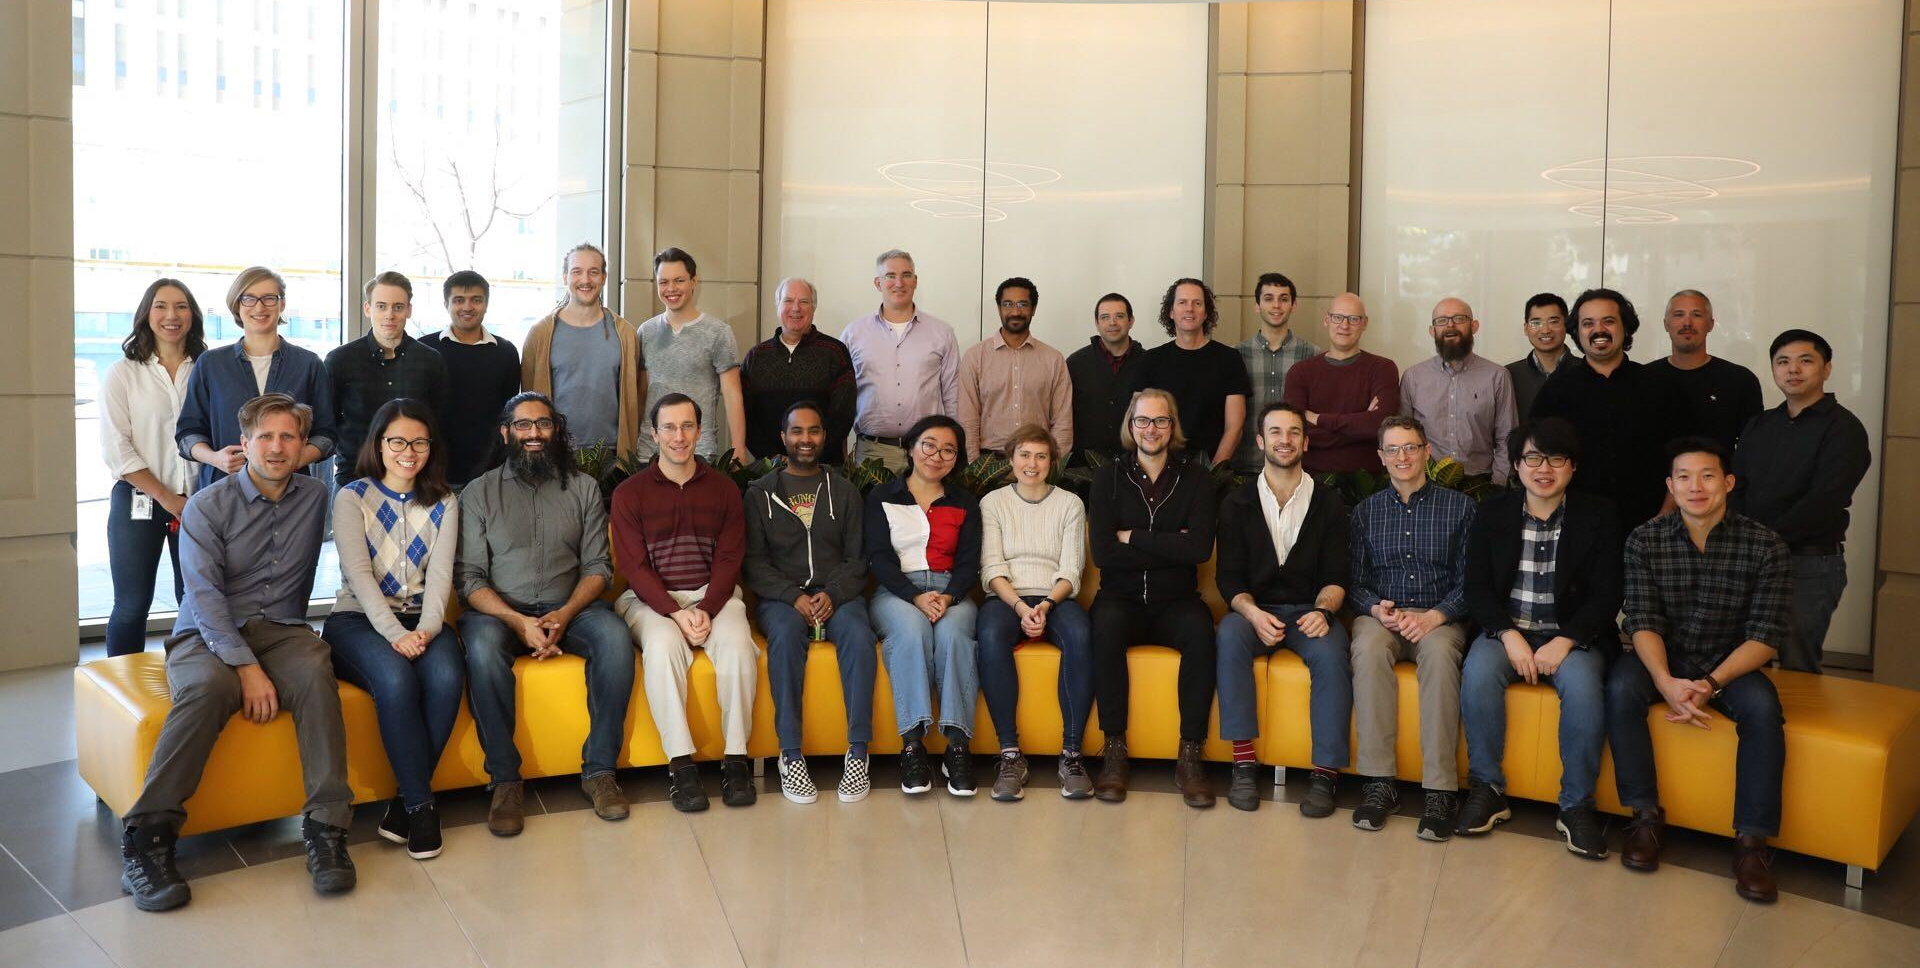
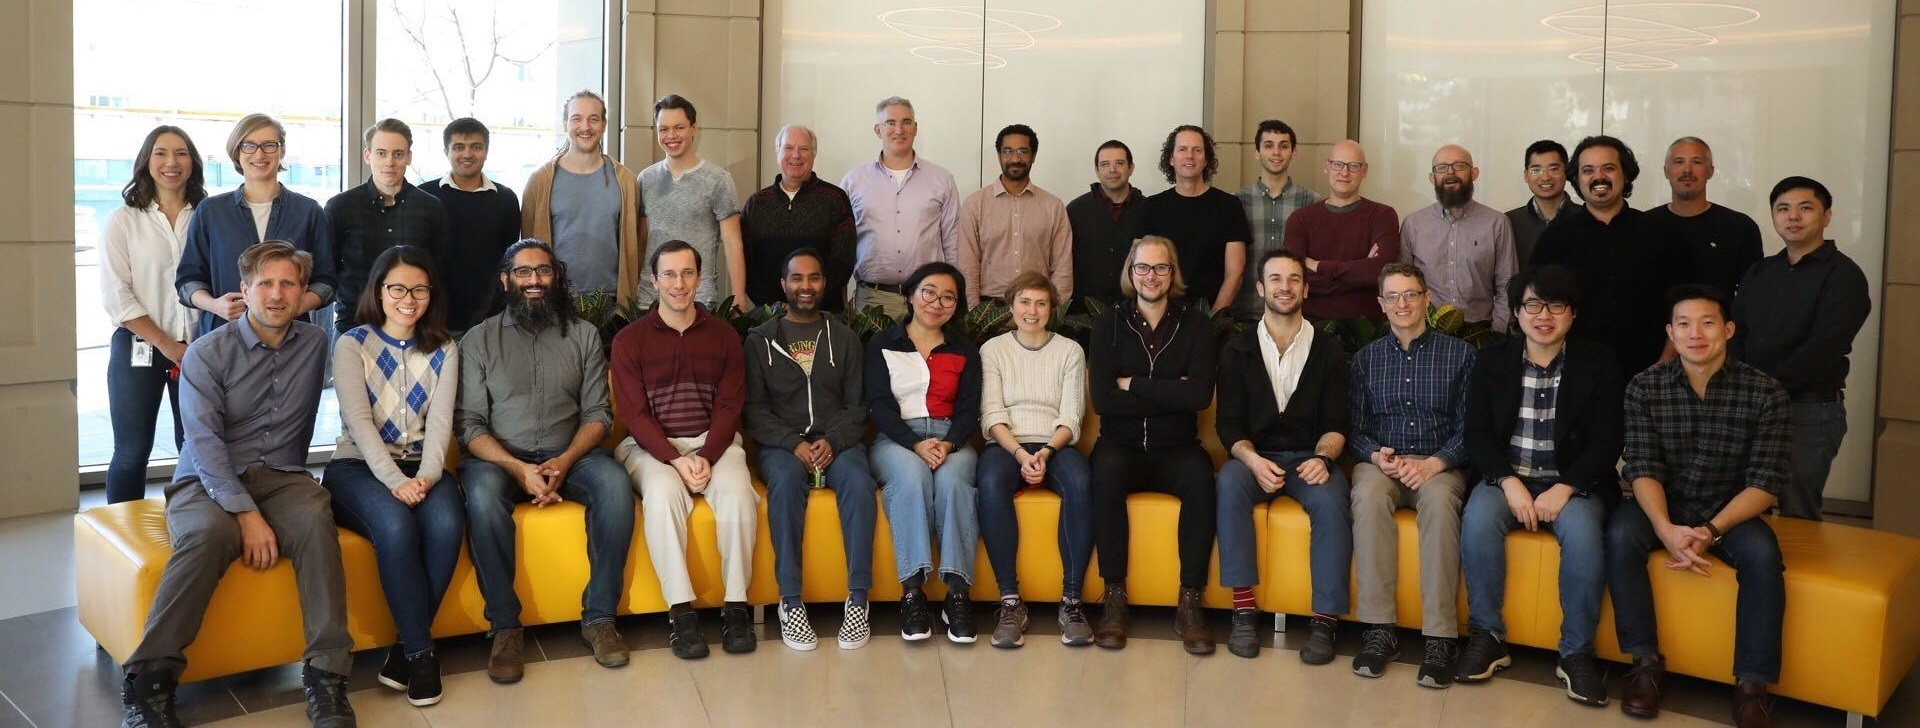
make people photo responsible

diff --git a/src/_static/style.css b/src/_static/style.css
@@ -87,6 +87,22 @@ h6.hover .headerlink {
     background-size: cover;
 }
 
+.scroll-top {
+    height: 700px;
+    position: relative;
+    overflow: hidden;
+}
+
+@media (pointer: coarse) {
+    .scroll-top {
+        overflow-x: scroll;
+    }
+}
+.draggable {
+    cursor: grab;
+    position: absolute;
+}
+
 .cover-text {
     color: #fff;
     text-align: center;
@@ -98,13 +114,33 @@ h6.hover .headerlink {
 
 @media screen and (max-width: 1399px) {
     .cover-text {
+        padding-top: 150px;
         font-size: 30pt;
+    }
+    .cover-top {
+        height: 550px;
+    }
+    .scroll-top {
+        height: 550px;
+    }
+    .scroll-top img {
+        height: 550px;
     }
 }
 
 @media screen and (max-width: 991px) {
     .cover-text {
+        padding-top: 100px;
         font-size: 20pt;
+    }
+    .cover-top {
+        height: 400px;
+    }
+    .scroll-top {
+        height: 400px;
+    }
+    .scroll-top img {
+        height: 400px;
     }
 }
 
@@ -125,10 +161,6 @@ h6.hover .headerlink {
     height: 800px !important;
 }
 
-#people-top {
-    background-image: url('everyone.jpg');
-    height: 800px !important;
-}
 .spacer {
     height: 81px;
     background-color: #777;

diff --git a/src/_static/scrolltop.js b/src/_static/scrolltop.js
@@ -1,0 +1,37 @@
+var pos = {x: 0, left: 0};
+var im = document.getElementsByClassName("draggable")[0];
+
+function moveimg(e) {
+  var dx = e.clientX - pos.x;
+  var newleft = pos.left + dx;
+  if (newleft > 0) {
+    newleft = 0;
+  } else if (newleft < -(im.width - window.innerWidth)) {
+    newleft = -(im.width - window.innerWidth);
+  }
+  pos.x = e.clientX;
+  im.style.left = newleft + 'px';
+  pos.left = newleft;
+}
+
+function enddragging() {
+  im.style.cursor = "grab";
+  im.removeEventListener("mousemove", moveimg);
+  im.removeEventListener("mouseup", enddragging);
+}
+
+im.addEventListener("mousedown", function(e) {
+  pos.x = e.clientX;
+  im.style.cursor = "grabbing";
+  im.addEventListener("mousemove", moveimg);
+  im.addEventListener("mouseup", enddragging);
+  e.preventDefault();
+});
+
+function resetimg() {
+  im.style.top = (im.parentElement.clientHeight - im.height) / 2 + 'px';
+  im.style.left = 0;
+  pos.left = 0;
+}
+window.addEventListener("resize", resetimg);
+window.addEventListener("load", resetimg);

diff --git a/src/_template/people.html b/src/_template/people.html
@@ -1,8 +1,10 @@
 {%- extends "layout.html" %}
 
 {%- block cover %}
-<div class="cover-top" id="people-top">
+<div class="scroll-top">
+  <img class="draggable" src="_static/everyone.jpg">
 </div>
+<script src="/_static/scrolltop.js"></script>
 {%- endblock %}
 
 {%- block document %}
